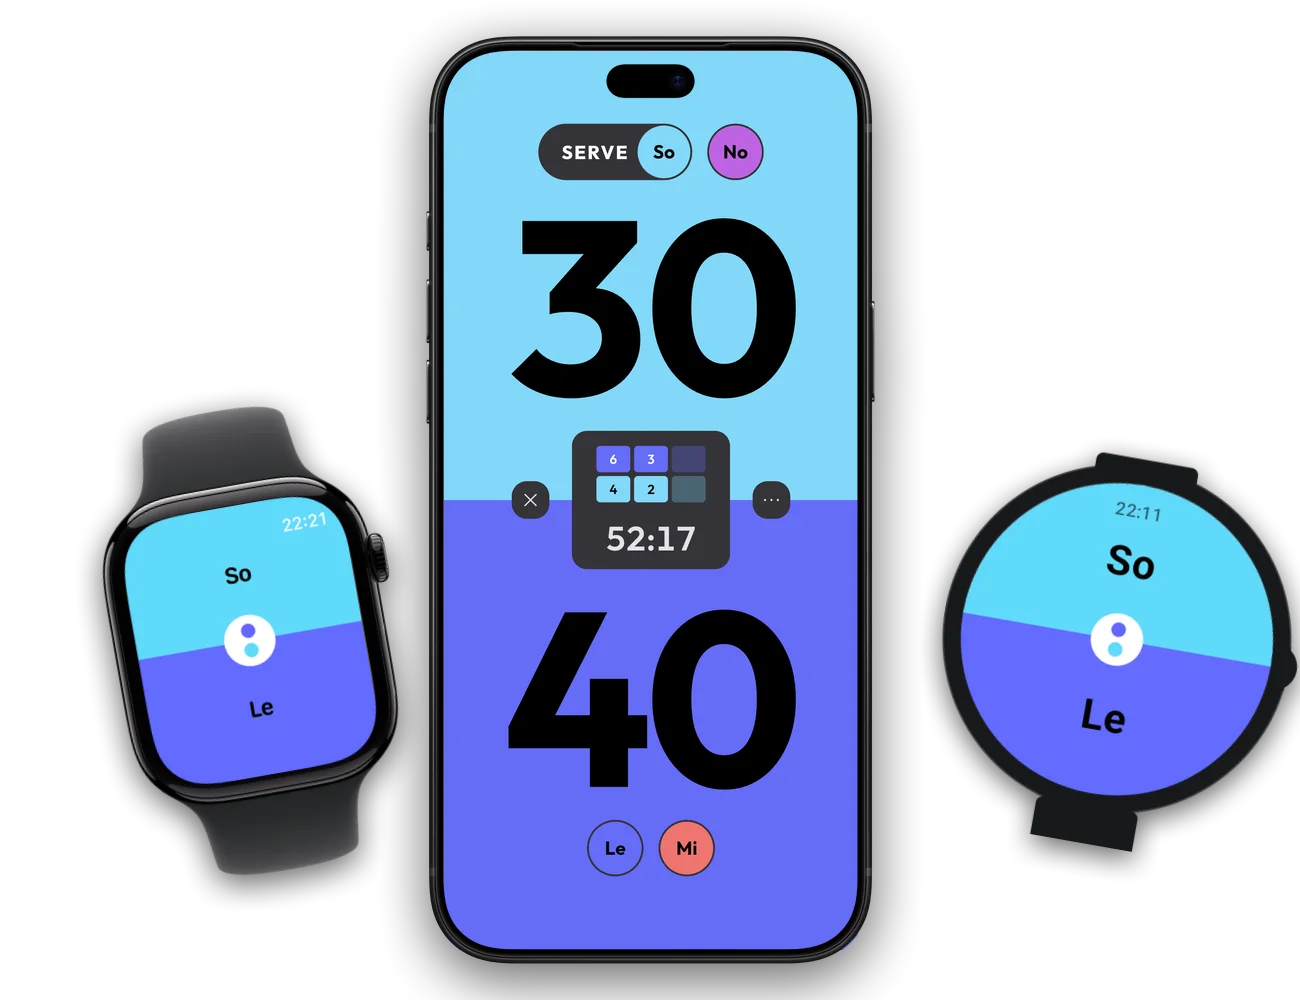
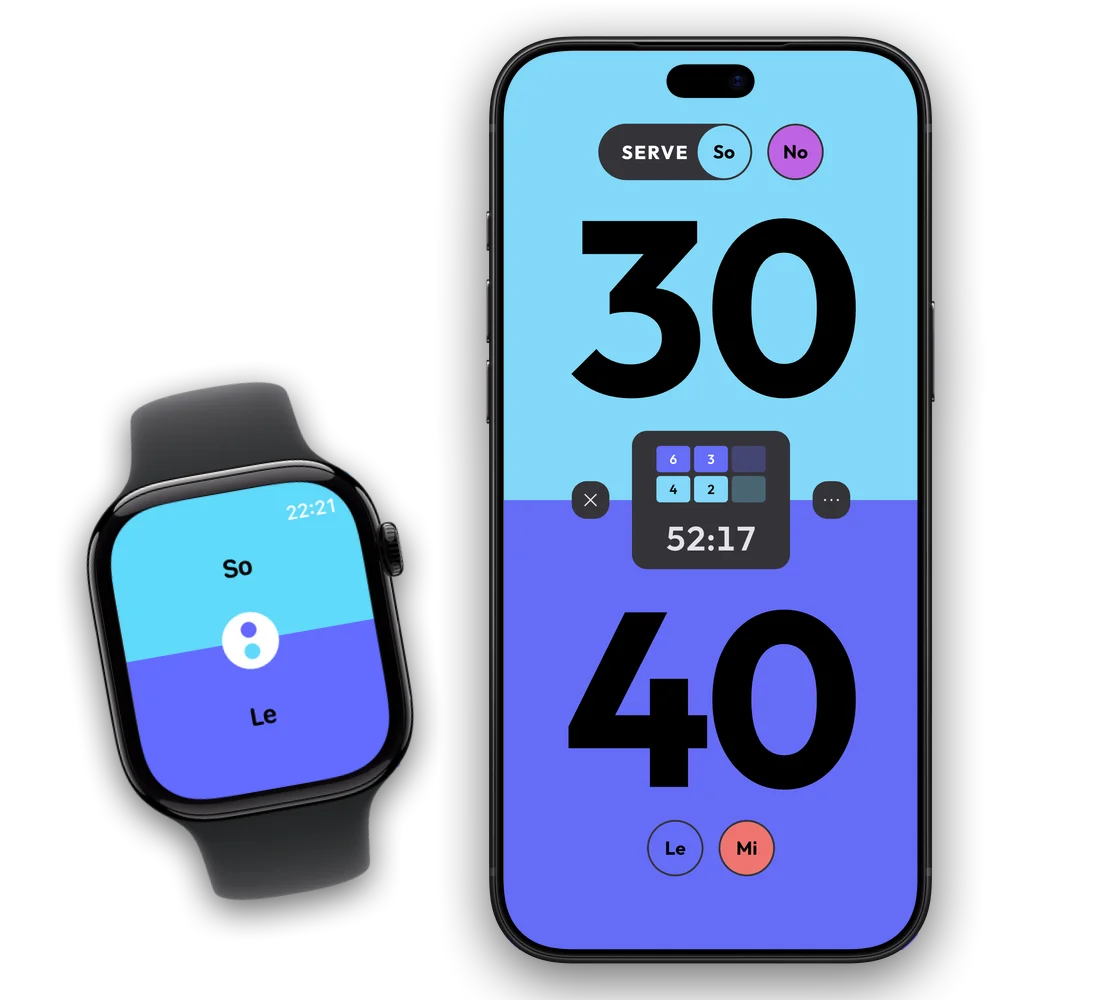
feat(home): one app section, "Klikkr" instead of "Armband"
- The smartwatch picture shows only iPhone and Apple Watch.
- "Armband, App, Scoreboard" becomes "Klikkr, App, Scoreboard": a
  Klikkr is a band or a smartwatch, and the steps say so.
- The feature story and the separate download section are one app
  section now: badge "Die kostenlose Klikkr App", the five tabs, the
  store badges and the QR code at the end. The old download section's
  heading texts are gone; StoreBadges has its own file.

Claude-Session: https://claude.ai/code/session_01QDuw8iEwmNrZTxHekMSu15

diff --git a/src/i18n/fr.ts b/src/i18n/fr.ts
@@ -69,21 +69,22 @@ export const fr: Translations = {
   },
 
   system: {
-    title: 'Bracelet, app,',
+    title: 'Klikkr, app,',
     titleAccent: 'tableau de score.',
     description:
       'Trois éléments, une expérience fluide — prêt en quelques secondes.',
     imageAlt:
-      "Joueuse contrôlant le tableau de score Klikkr depuis l'app, bracelet au poignet",
+      "Joueuse contrôlant le tableau de score Klikkr depuis l'app, Klikkr au poignet",
     steps: [
       {
-        title: 'Mettez le bracelet',
-        description: 'Portez les bracelets Klikkr au poignet.',
+        title: 'Mettez votre Klikkr',
+        description:
+          'Portez un bracelet Klikkr ou votre montre connectée au poignet.',
       },
       {
-        title: 'Connectez en Bluetooth',
+        title: "Connectez-vous à l'app",
         description:
-          "Couplez les bracelets à l'app gratuite Klikkr en un seul tap.",
+          "Le bracelet se couple en un seul tap, la montre connectée se relie toute seule à l'app gratuite Klikkr.",
       },
       {
         title: 'Lancez le match',
@@ -117,7 +118,7 @@ export const fr: Translations = {
       'Pour le double ou les joueurs sans montre connectée, il y a les bracelets Klikkr.',
     bandsLink: 'Voir les bracelets',
     imageAlt:
-      "Tableau de score Klikkr sur un iPhone, à côté d'une Apple Watch et d'une montre Wear OS affichant le même score",
+      "Tableau de score Klikkr sur un iPhone, à côté d'une Apple Watch affichant le même score",
   },
 
   features: {
@@ -151,10 +152,6 @@ export const fr: Translations = {
   },
 
   appFeatures: {
-    badge: 'Application compagnon',
-    title: "L'application compagnon ultime.",
-    description:
-      "L'application gratuite Klikkr transforme vos bracelets Bluetooth en un tableau de score intelligent et puissant. Parfaitement conçue pour les sports de raquette rapides.",
     downloadAppStore: "Télécharger dans l'App Store",
     downloadGooglePlay: 'Disponible sur Google Play',
     scanQrLabel: 'Scanner avec votre smartphone',
@@ -163,11 +160,11 @@ export const fr: Translations = {
   },
 
   appStory: {
-    badge: 'Ce que fait l’application',
+    badge: 'L’application gratuite Klikkr',
     title: 'Klikkr compte,',
     titleAccent: 'vous jouez.',
     description:
-      'Cinq choses dont l’application se charge pour que vous n’ayez pas à y penser.',
+      'L’application est gratuite et transforme vos Klikkr en tableau de score. Cinq choses dont elle se charge pour que vous n’ayez pas à y penser.',
     sections: {
       modes: {
         tab: 'Modes',

diff --git a/src/i18n/de.ts b/src/i18n/de.ts
@@ -69,20 +69,21 @@ export const de: Translations = {
   },
 
   system: {
-    title: 'Armband, App,',
+    title: 'Klikkr, App,',
     titleAccent: 'Scoreboard.',
     description: 'Drei Teile, ein nahtloses Erlebnis — in Sekunden startklar.',
     imageAlt:
-      'Spielerin steuert das Klikkr-Scoreboard per App, Armband am Handgelenk',
+      'Spielerin steuert das Klikkr-Scoreboard per App, Klikkr am Handgelenk',
     steps: [
       {
-        title: 'Armband anlegen',
-        description: 'Trag die Klikkr-Armbänder am Handgelenk.',
+        title: 'Klikkr anlegen',
+        description:
+          'Trag ein Klikkr-Armband oder deine Smartwatch am Handgelenk.',
       },
       {
-        title: 'Per Bluetooth verbinden',
+        title: 'Mit der App verbinden',
         description:
-          'Koppel die Armbänder mit einem Tap an die kostenlose Klikkr-App.',
+          'Das Armband koppelst du mit einem Tap, die Smartwatch verbindet sich von selbst mit der kostenlosen Klikkr-App.',
       },
       {
         title: 'Spiel starten',
@@ -116,7 +117,7 @@ export const de: Translations = {
       'Für Doppel oder Spieler ohne Smartwatch gibt es die Klikkr-Armbänder.',
     bandsLink: 'Zu den Armbändern',
     imageAlt:
-      'Klikkr-Scoreboard auf dem iPhone, daneben eine Apple Watch und eine Wear-OS-Uhr mit demselben Spielstand',
+      'Klikkr-Scoreboard auf dem iPhone, daneben eine Apple Watch mit demselben Spielstand',
   },
 
   features: {
@@ -150,10 +151,6 @@ export const de: Translations = {
   },
 
   appFeatures: {
-    badge: 'Klikkr App',
-    title: 'Die kostenlose Klikkr App.',
-    description:
-      'Die kostenlose Klikkr App verwandelt deine Bluetooth-Armbänder in ein leistungsstarkes, intelligentes Scoreboard. Perfekt konzipiert für schnelle Racketsportarten wie Padel, Tennis und Squash.',
     downloadAppStore: 'Im App Store laden',
     downloadGooglePlay: 'Jetzt bei Google Play',
     scanQrLabel: 'Mit dem Smartphone scannen',
@@ -161,11 +158,11 @@ export const de: Translations = {
   },
 
   appStory: {
-    badge: 'Was die App kann',
+    badge: 'Die kostenlose Klikkr App',
     title: 'Klikkr zählt,',
     titleAccent: 'du spielst.',
     description:
-      'Fünf Dinge, die die App übernimmt, damit du dich nicht darum kümmern musst.',
+      'Die App ist kostenlos und verwandelt deine Klikkr in ein Scoreboard. Fünf Dinge, die sie übernimmt, damit du dich nicht darum kümmern musst.',
     sections: {
       modes: {
         tab: 'Modi',

diff --git a/src/i18n/it.ts b/src/i18n/it.ts
@@ -69,21 +69,22 @@ export const it: Translations = {
   },
 
   system: {
-    title: 'Braccialetto, app,',
+    title: 'Klikkr, app,',
     titleAccent: 'tabellone.',
     description:
       "Tre elementi, un'esperienza fluida — pronto in pochi secondi.",
     imageAlt:
-      "Giocatrice che controlla il tabellone Klikkr dall'app, braccialetto al polso",
+      "Giocatrice che controlla il tabellone Klikkr dall'app, Klikkr al polso",
     steps: [
       {
-        title: 'Indossa il braccialetto',
-        description: 'Indossa i braccialetti Klikkr al polso.',
+        title: 'Indossa il tuo Klikkr',
+        description:
+          'Indossa un braccialetto Klikkr o il tuo smartwatch al polso.',
       },
       {
-        title: 'Connetti via Bluetooth',
+        title: "Collegati all'app",
         description:
-          "Abbina i braccialetti all'app gratuita Klikkr con un tap.",
+          "Il braccialetto si abbina con un tap, lo smartwatch si collega da solo all'app gratuita Klikkr.",
       },
       {
         title: 'Avvia la partita',
@@ -117,7 +118,7 @@ export const it: Translations = {
       'Per il doppio o per chi non ha uno smartwatch ci sono i braccialetti Klikkr.',
     bandsLink: 'Vedi i braccialetti',
     imageAlt:
-      'Tabellone Klikkr su un iPhone, accanto a un Apple Watch e a un orologio Wear OS con lo stesso punteggio',
+      'Tabellone Klikkr su un iPhone, accanto a un Apple Watch con lo stesso punteggio',
   },
 
   features: {
@@ -152,10 +153,6 @@ export const it: Translations = {
   },
 
   appFeatures: {
-    badge: 'App compagna digitale',
-    title: "L'app compagna definitiva.",
-    description:
-      "L'app gratuita Klikkr trasforma i tuoi braccialetti Bluetooth in un tabellone segnapunti intelligente e potente. Perfettamente progettata per sport di racchetta veloci.",
     downloadAppStore: "Scarica su l'App Store",
     downloadGooglePlay: 'Disponibile su Google Play',
     scanQrLabel: 'Scansiona con lo smartphone',
@@ -163,11 +160,11 @@ export const it: Translations = {
   },
 
   appStory: {
-    badge: 'Cosa fa l’app',
+    badge: 'L’app gratuita Klikkr',
     title: 'Klikkr conta,',
     titleAccent: 'tu giochi.',
     description:
-      'Cinque cose di cui si occupa l’app, così tu non devi pensarci.',
+      'L’app è gratuita e trasforma i tuoi Klikkr in un tabellone. Cinque cose di cui si occupa, così tu non devi pensarci.',
     sections: {
       modes: {
         tab: 'Modalità',

diff --git a/src/i18n/en.ts b/src/i18n/en.ts
@@ -68,20 +68,21 @@ export const en: Translations = {
   },
 
   system: {
-    title: 'Wristband, app,',
+    title: 'Klikkr, app,',
     titleAccent: 'scoreboard.',
     description: 'Three parts, one seamless experience — ready in seconds.',
     imageAlt:
-      'Player controlling the Klikkr scoreboard from the app, wristband on her wrist',
+      'Player controlling the Klikkr scoreboard from the app, Klikkr on her wrist',
     steps: [
       {
-        title: 'Put on the wristband',
-        description: 'Wear the Klikkr wristbands on your wrist.',
+        title: 'Put on your Klikkr',
+        description:
+          'Wear a Klikkr wristband or your smartwatch on your wrist.',
       },
       {
-        title: 'Connect via Bluetooth',
+        title: 'Connect to the app',
         description:
-          'Pair the wristbands with the free Klikkr app in a single tap.',
+          'Pair the wristband with a single tap, the smartwatch connects to the free Klikkr app on its own.',
       },
       {
         title: 'Start the match',
@@ -115,7 +116,7 @@ export const en: Translations = {
       'For doubles, or players without a smartwatch, there are the Klikkr bands.',
     bandsLink: 'See the bands',
     imageAlt:
-      'Klikkr scoreboard on an iPhone, next to an Apple Watch and a Wear OS watch showing the same score',
+      'Klikkr scoreboard on an iPhone, next to an Apple Watch showing the same score',
   },
 
   features: {
@@ -149,10 +150,6 @@ export const en: Translations = {
   },
 
   appFeatures: {
-    badge: 'Digital Companion App',
-    title: 'The Ultimate Companion App.',
-    description:
-      'The free Klikkr app turns your Bluetooth wristbands into a powerful, intelligent smart scoreboard. Perfectly designed for fast-paced racket sports like Padel, Tennis, and Squash.',
     downloadAppStore: 'Download on the App Store',
     downloadGooglePlay: 'Get it on Google Play',
     scanQrLabel: 'Scan with your phone',
@@ -160,11 +157,11 @@ export const en: Translations = {
   },
 
   appStory: {
-    badge: 'What the app does',
+    badge: 'The free Klikkr app',
     title: 'Klikkr keeps score,',
     titleAccent: 'you play.',
     description:
-      'Five things the app takes off your hands so you do not have to think about them.',
+      'The app is free and turns your Klikkr into a scoreboard. Five things it takes off your hands so you do not have to think about them.',
     sections: {
       modes: {
         tab: 'Modes',

diff --git a/src/components/StoreBadges.tsx b/src/components/StoreBadges.tsx
@@ -1,6 +1,11 @@
-import { getTranslations, type Locale } from '../i18n'
+import type { getTranslations } from '../i18n'
 import { track } from '../lib/analytics'
 
+/**
+ * App Store and Google Play badges, and the QR code on wide screens.
+ * Shared by the app section and the smartwatch section, so the links
+ * and the click tracking exist once.
+ */
 const APP_STORE_URL = 'https://apps.apple.com/ch/app/klikkr/id6761069158'
 const GOOGLE_PLAY_URL =
   'https://play.google.com/store/apps/details?id=ch.wild.klikkr'
@@ -62,37 +67,5 @@ export function StoreBadges({
         </span>
       </div>
     </div>
-  )
-}
-
-/**
- * The download block: badge, one paragraph, store badges and the QR.
- *
- * It used to carry a six-tile feature grid whose claims described the
- * app as it was two rewrites ago, plus an AI-generated preview image
- * with English text burned into it. The feature story is now
- * AppStorySections, built from real screenshots per locale.
- */
-export function AppFeaturesSection({ lang = 'de' }: { lang?: Locale }) {
-  const t = getTranslations(lang).appFeatures
-
-  return (
-    <section className="w-full py-12 md:py-24 lg:py-32 bg-zinc-950 border-t border-zinc-900">
-      <div className="container px-4 md:px-6 mx-auto">
-        <div className="flex flex-col items-center justify-center space-y-4 text-center">
-          <div className="inline-block rounded-lg bg-emerald-500/10 px-3 py-1 text-sm text-emerald-400 border border-emerald-500/20">
-            {t.badge}
-          </div>
-          <h2 className="text-3xl font-bold tracking-tighter sm:text-5xl">
-            {t.title}
-          </h2>
-          <p className="max-w-[700px] text-zinc-400 md:text-xl/relaxed lg:text-base/relaxed xl:text-xl/relaxed mx-auto">
-            {t.description}
-          </p>
-
-          <StoreBadges t={t} />
-        </div>
-      </div>
-    </section>
   )
 }

diff --git a/src/components/AppStorySections.tsx b/src/components/AppStorySections.tsx
@@ -1,9 +1,10 @@
 import { useEffect, useRef, useState } from 'react'
 import { getTranslations, type Locale } from '../i18n'
+import { StoreBadges } from './StoreBadges'
 
 /**
- * The feature story on the home page: one tab per capability, each
- * explaining exactly one thing and showing it.
+ * The app on the home page: the feature story, one tab per capability,
+ * each explaining exactly one thing and showing it, then the download.
  *
  * Six stacked bands made the page very long for content most visitors
  * only skim, so the sections share one stage and the reader picks.
@@ -29,7 +30,8 @@ const SECTION_IDS = ['summary', 'modes', 'rules', 'stats', 'mirror'] as const
 type SectionId = (typeof SECTION_IDS)[number]
 
 export function AppStorySections({ lang = 'de' }: { lang?: Locale }) {
-  const t = getTranslations(lang).appStory
+  const all = getTranslations(lang)
+  const t = all.appStory
   const [active, setActive] = useState<SectionId>(SECTION_IDS[0])
   const tabRefs = useRef<(HTMLButtonElement | null)[]>([])
   const sectionRef = useRef<HTMLElement | null>(null)
@@ -238,6 +240,13 @@ export function AppStorySections({ lang = 'de' }: { lang?: Locale }) {
             </div>
           )
         })}
+
+        {/* The download sits under the story, so the section ends on
+            what to do next. It was a section of its own, which split
+            "what the app does" from "get the app" for no reason. */}
+        <div className="mt-12 md:mt-16 border-t border-zinc-800 pt-4">
+          <StoreBadges t={all.appFeatures} />
+        </div>
       </div>
     </section>
   )

diff --git a/src/App.tsx b/src/App.tsx
@@ -3,7 +3,6 @@ import { SystemSection } from './components/SystemSection'
 import { SmartwatchSection } from './components/SmartwatchSection'
 import { FeaturesSection } from './components/FeaturesSection'
 import { CheckoutSection } from './components/CheckoutSection'
-import { AppFeaturesSection } from './components/AppFeaturesSection'
 import { AppStorySections } from './components/AppStorySections'
 import { NewsletterSection } from './components/NewsletterForm'
 import type { Locale } from './i18n'
@@ -16,7 +15,6 @@ function App({ lang = 'de' }: { lang?: Locale }) {
       <SystemSection lang={lang} />
       <SmartwatchSection lang={lang} />
       <AppStorySections lang={lang} />
-      <AppFeaturesSection lang={lang} />
       <CheckoutSection lang={lang} />
       <NewsletterSection lang={lang} />
     </>

diff --git a/src/components/SmartwatchSection.tsx b/src/components/SmartwatchSection.tsx
@@ -1,5 +1,5 @@
 import { getLocalizedPath, getTranslations, type Locale } from '../i18n'
-import { StoreBadges } from './AppFeaturesSection'
+import { StoreBadges } from './StoreBadges'
 
 /**
  * The smartwatch as a Klikkr, on Apple Watch and Wear OS.
@@ -31,7 +31,7 @@ export function SmartwatchSection({ lang = 'de' }: { lang?: Locale }) {
             <img
               src={`/app/${lang}/watch.webp`}
               alt={t.imageAlt}
-              width={1300}
+              width={1100}
               height={1000}
               loading="lazy"
               className="w-full h-auto"

diff --git a/src/components/SmartwatchGestures.tsx b/src/components/SmartwatchGestures.tsx
@@ -34,7 +34,7 @@ export function SmartwatchGestures({ lang = 'de' }: { lang?: Locale }) {
           <img
             src={`/app/${lang}/watch.webp`}
             alt={t.imageAlt}
-            width={1300}
+            width={1100}
             height={1000}
             loading="lazy"
             className="w-full h-auto"
